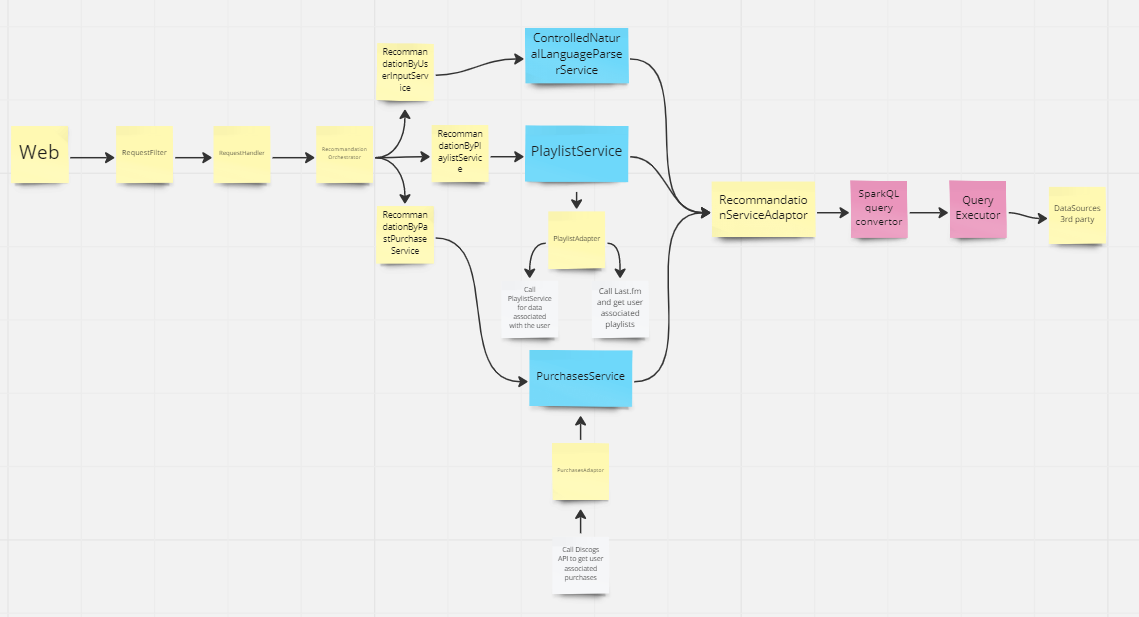
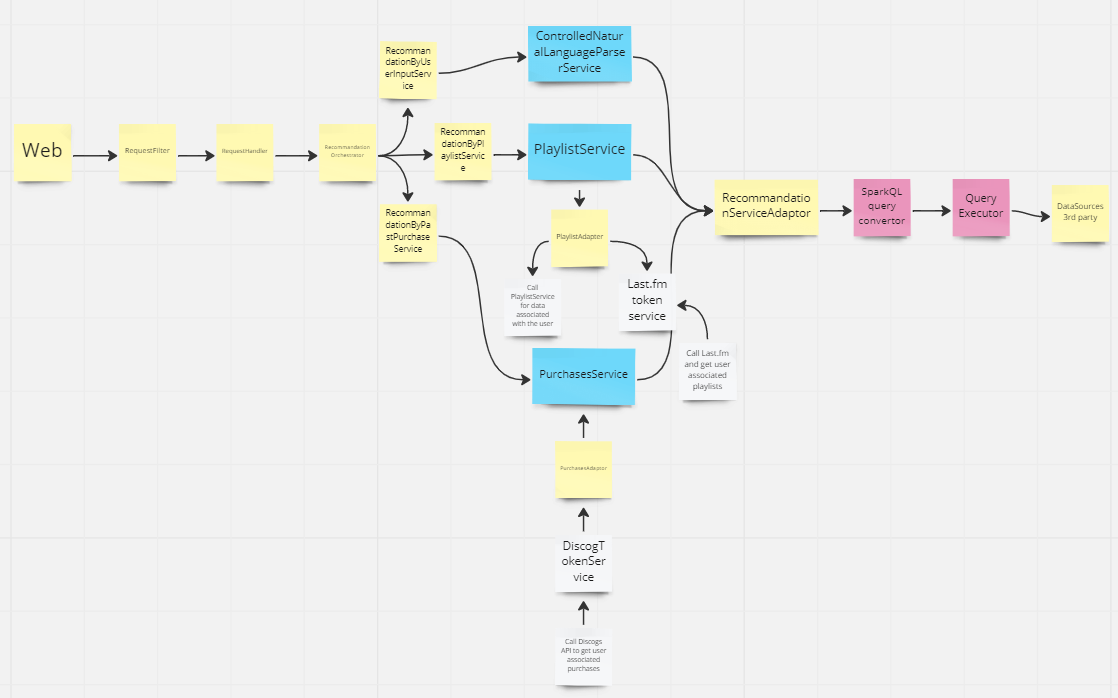
recomandation start

Changed region(s): [[0.0, 0.0308, 1.0, 0.9854]]

diff --git a/docs/index.html b/docs/index.html
@@ -114,12 +114,12 @@
               </div>
               <h3 class="card-title">Database arhitecture</h3>
 
-                <div class="item">
-                  <img src="db.PNG" alt="database" style="width:100%;">
-                </div>
+              <div class="item">
+                <img src="db.PNG" alt="database" style="width:100%;">
+              </div>
 
-                <div class="item">
-                  <pre>
+              <div class="item">
+                <pre>
                     <code>
 
                       Table vire.users {
@@ -158,58 +158,81 @@
                         song_id int [ref: > vire.songs.id]
                       }
 
+                      Table vire.discogAccount {
+                        id int [pk, increment]
+                        email varchar
+                        password varchar
+                      }
+
+                      Table vire.lastFMAccount {
+                        id int [pk, increment]
+                        email varchar
+                        password varchar
+                      }
+
                   </code>
                 </pre>
               </div>
               <h3 class="card-title">Main Backend Modules</h3>
               <h3 class="card-title">Recommandation Module</h3>
               <h4 class="card-title">Overview</h4>
-                <p>
-                  The arhitecture of the service is the following:
-                </p>
-                <div class="item">
-                  <img src="recommandationArhitecture.PNG" alt="userService" style="width:100%;">
-                </div>
-              
+              <p>
+                The arhitecture of the service is the following:
+              </p>
+              <div class="item">
+                <img src="recommandationArhitecture.PNG" alt="userService" style="width:100%;">
+              </div>
+
               <h4 class="card-title">Recommandation based on user input</h4>
+              <p>Using the endpoint for this recommandation type the user will receive recommandation based on an input submited by him</p>
+              <p>The input needs to be valid in the controlled natural language defined by us</p>
+              
               <h5 class="card-title">Controlled Natural Language</h5>
               <h4 class="card-title">Recommandation based on past purchases</h4>
+                <p>Using the endpoint for this recommandation type the user will receive recommandation based on past purchases done on Discogs</p>
+                <p>In order to be able to receive the output for this endpoint the user will need to associate the account on our application with his account on<a src="https://www.discogs.com/">Discogs</a></p>
               <h5 class="card-title">Communication with external service: Discogs</h5>
               <h4 class="card-title">Recommandation based on playlist</h4>
+              <p>Using the endpoint for this recommandation type the user will receive recommandation based on playlists. The playlists can be either from <a src="https://www.last.fm/">Last.fm</a> or from a file imported in pur application</p>
+              <ol>
+                <li>Last.fm: In order to be able to receive the output for this endpoint the user will need to either associate the account on our application with his account on<a src="https://www.last.fm/">Last.fm</a></li>
+                <li>Imported playlist: In order to be able to receive the output for this endpoint the user will need to have an account in our application and to upload one or more playlists in it.</a></li>
+              </ol>
               <h5 class="card-title">Communication with external service: Last.fm</h5>
+
               <h5 class="card-title">Communication with playlist service</h5>
               <h4 class="card-title">Output</h4>
               <h4 class="card-title">OpenApi</h4>
-              
+
 
               <h3 class="card-title">User Module</h3>
 
-            <p>
-              This module role is to maintain the functionality needed for users like login, register etc.
-            </p>
-            <p>
-              The arhitecture of the service is the following:
-            </p>
-            <div class="item">
-              <img src="arhUserService.PNG" alt="userService" style="width:100%;">
-            </div>
-            <p>  
-              Open API: <a href="./user-service-swagger/index.html">Here</a>
-            </p>
+              <p>
+                This module role is to maintain the functionality needed for users like login, register etc.
+              </p>
+              <p>
+                The arhitecture of the service is the following:
+              </p>
+              <div class="item">
+                <img src="arhUserService.PNG" alt="userService" style="width:100%;">
+              </div>
+              <p>
+                Open API: <a href="./user-service-swagger/index.html">Here</a>
+              </p>
 
-            <h3 class="card-title">Playlist Module</h3>
-            <p>
-              This module role is to maintain the functionality needed for playlists like create, edit etc.
-            </p>
-            <p>
-              The arhitecture of the service is the following:
-            </p>
-            <div class="item">
-              <img src="arhPlaylistService.PNG" alt="playlistService" style="width:100%;">
-            </div>
-            <p>
-              Open API: <a href="./playlist-service-swagger/index.html">Here</a>
-            </p>
+              <h3 class="card-title">Playlist Module</h3>
+              <p>
+                This module role is to maintain the functionality needed for playlists like create, edit etc.
+              </p>
+              <p>
+                The arhitecture of the service is the following:
+              </p>
+              <div class="item">
+                <img src="arhPlaylistService.PNG" alt="playlistService" style="width:100%;">
+              </div>
+              <p>
+                Open API: <a href="./playlist-service-swagger/index.html">Here</a>
+              </p>
             </div>
         </section>
       </div>
@@ -367,7 +390,8 @@
                 </p>
                 <p>
                   Also, we will suggest some vinyls to the user based on the playlists he owns on different platforms
-                  We chose to get this information from the music streaming service <b><a href="https://www.last.fm/api/playlists">Last.fm Playlists</a></b>.
+                  We chose to get this information from the music streaming service <b><a
+                      href="https://www.last.fm/api/playlists">Last.fm Playlists</a></b>.
                 </p>
               </blockquote>
             </div>
